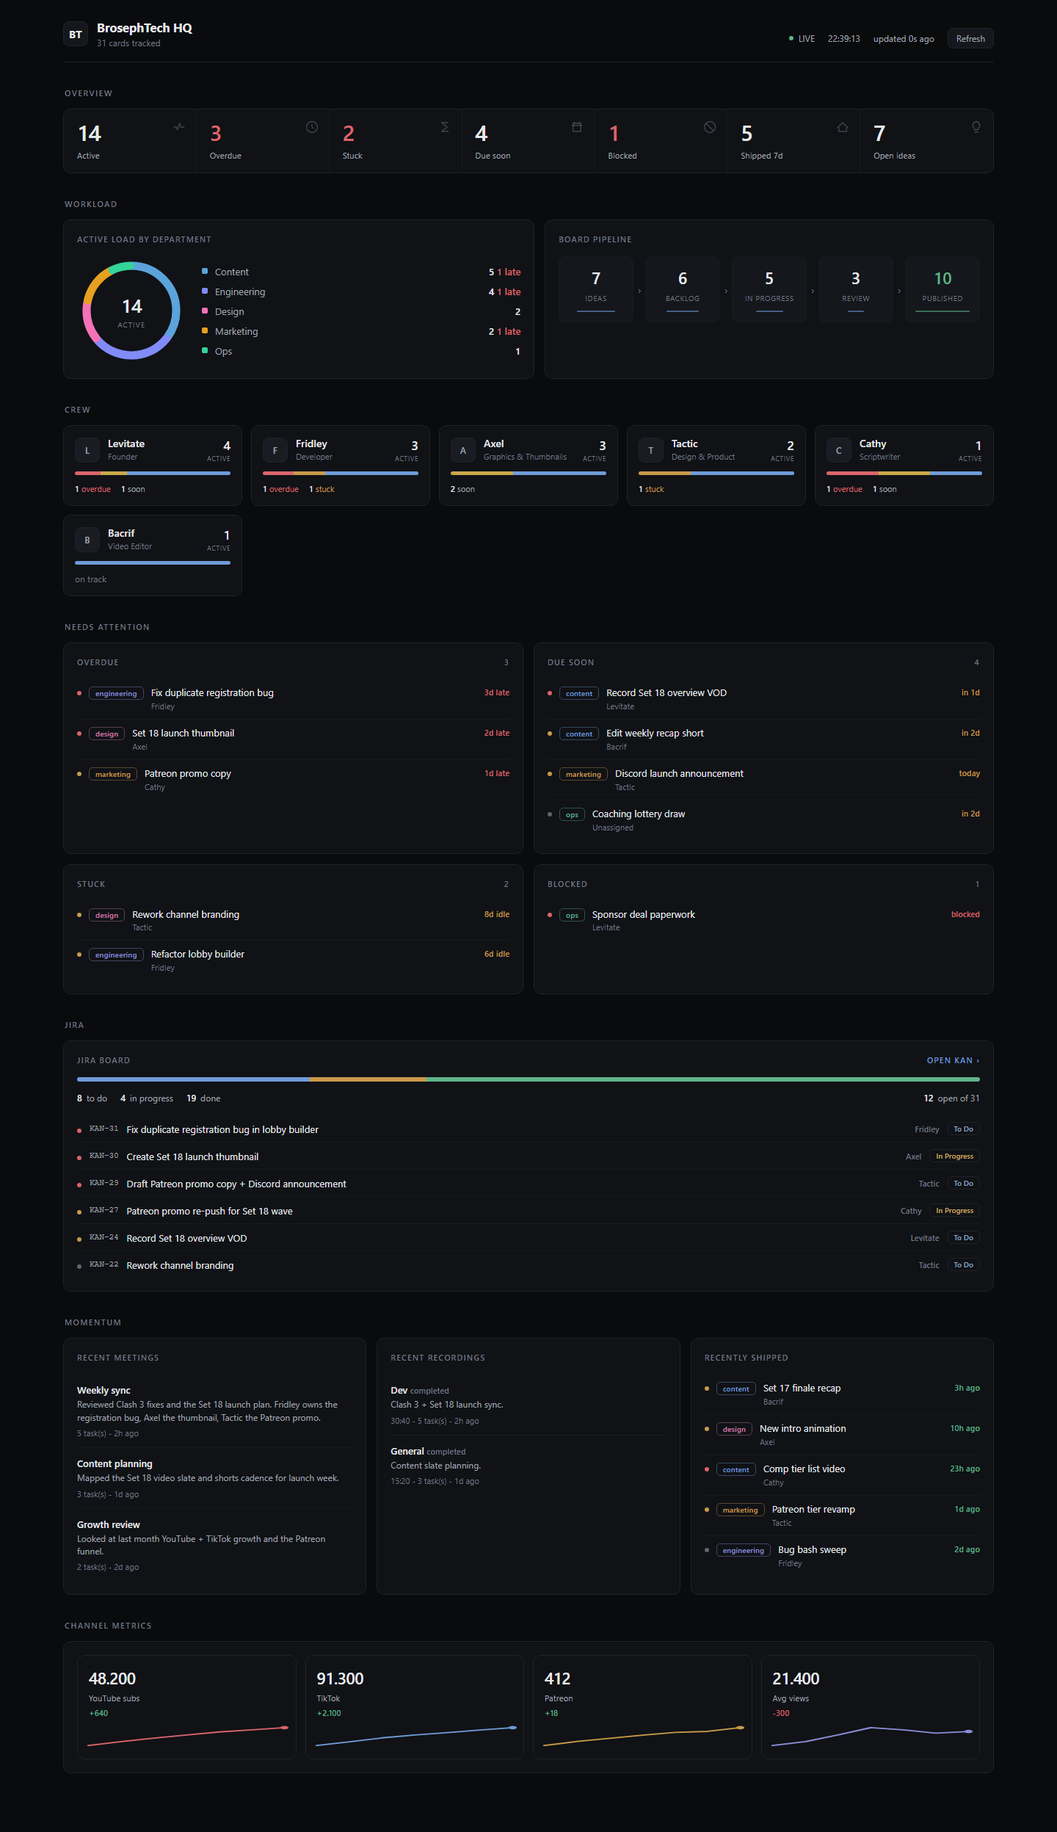
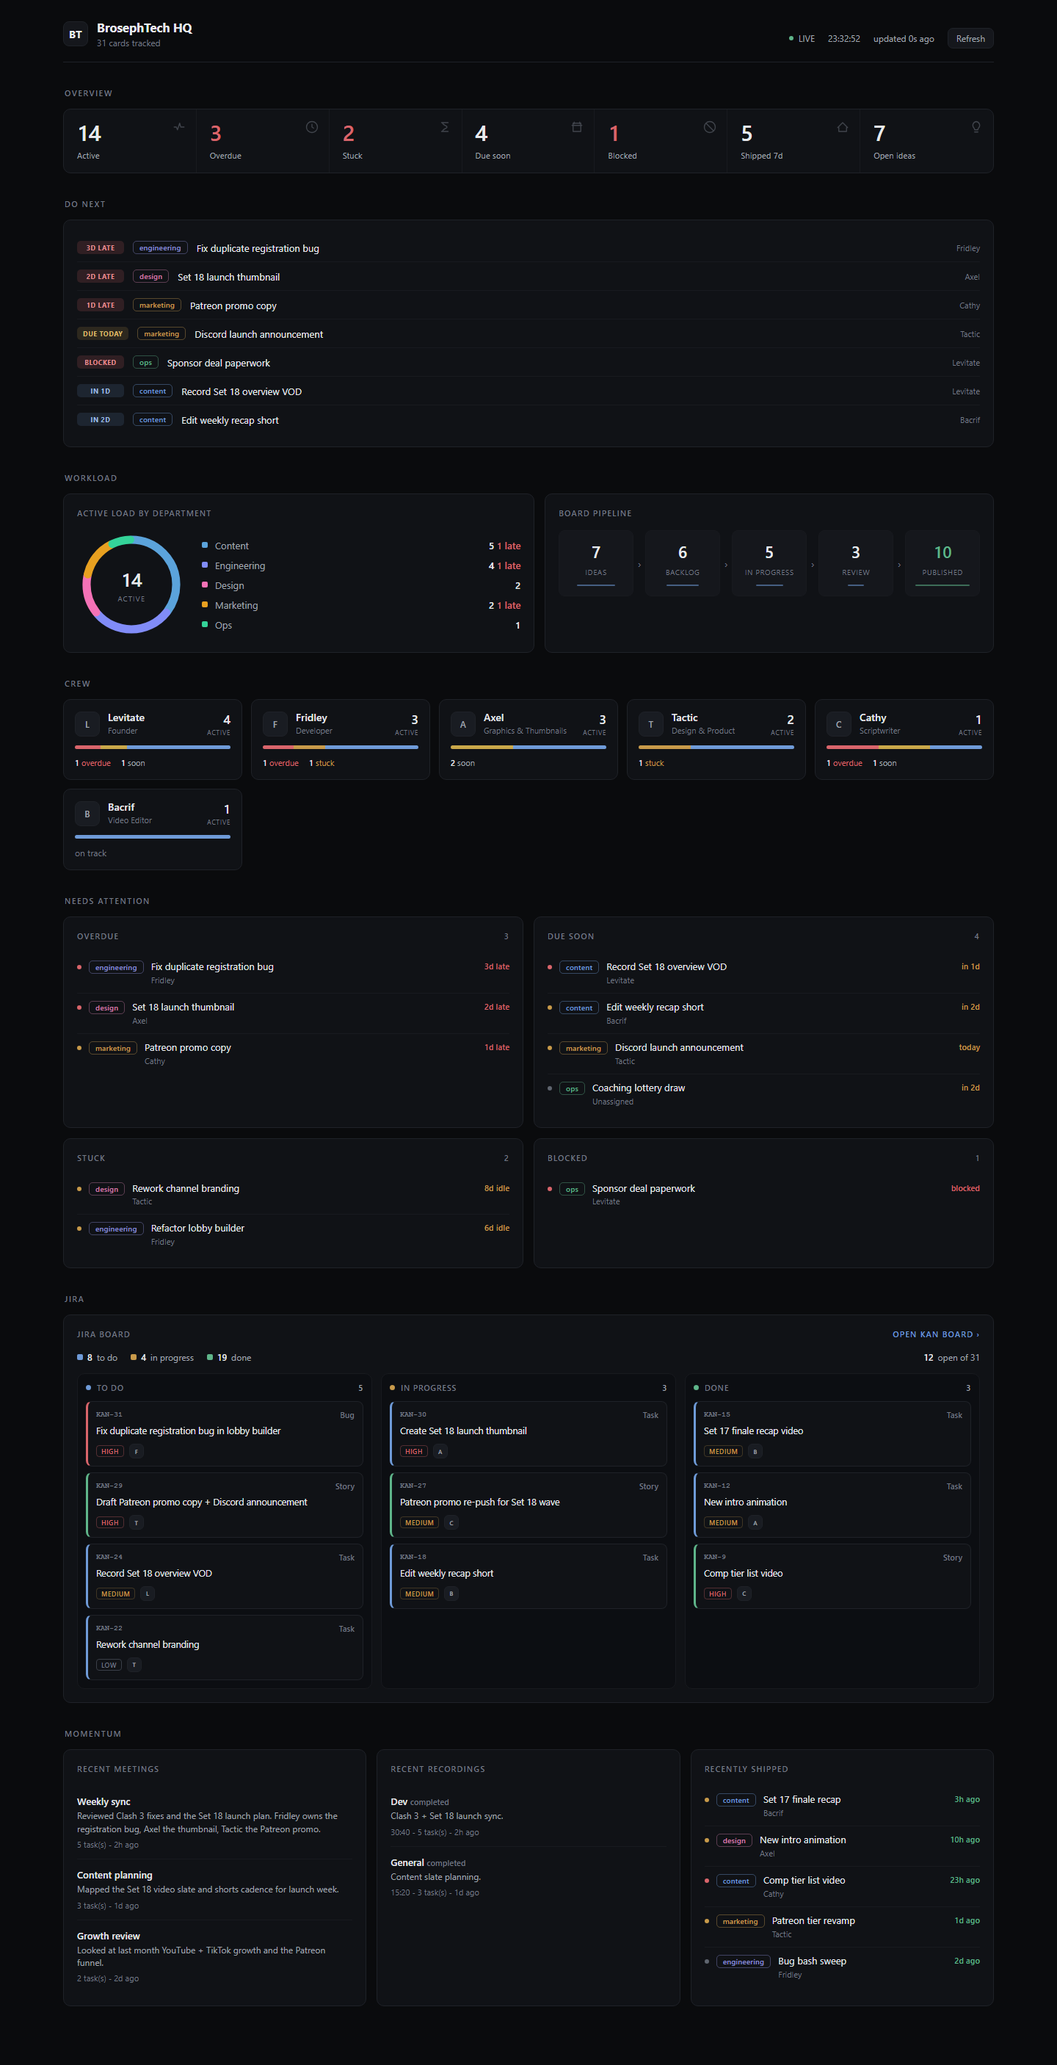
feat(bt-bot): Jira kanban board + 'Do next' focus queue, remove channel metrics
- Jira section is now a real kanban: To Do / In Progress / Done columns of issue
  cards (type-colored, priority chip, assignee avatar), priority-sorted.
  jiraOverview groups issues server-side; client falls back to grouping
  openItems/recent so it works before a restart too.
- New 'Do next' panel: one ranked queue combining overdue / blocked / due-today /
  due-soon into a single directive 'act on this now' list.
- Removed channel metrics from the web dashboard + Discord embed (the /metrics
  command + table stay). Docs + demo data + screenshots updated.

diff --git a/bt-bot/web/public/index.html b/bt-bot/web/public/index.html
@@ -128,6 +128,33 @@
   .jp-high{color:#d9656b;border-color:#d9656b55}.jp-medium{color:#c89a4a;border-color:#c89a4a44}.jp-low{color:var(--faint);border-color:#3a3f48}.jp-highest{color:#e0484f;border-color:#e0484f66}
   .java{width:22px;height:22px;border-radius:6px;background:#191c22;border:1px solid var(--line);display:flex;align-items:center;justify-content:center;font-size:9px;font-weight:600;color:var(--muted);flex:none;letter-spacing:.2px}
   .jempty{width:22px;flex:none}
+  /* kanban board */
+  .jsummary{display:flex;gap:18px;font-size:12px;color:var(--muted);margin-bottom:2px;flex-wrap:wrap}
+  .jsummary span{display:flex;align-items:center;gap:6px}
+  .jsummary b{color:var(--text);font-weight:600;font-variant-numeric:tabular-nums}
+  .kanban{display:grid;grid-template-columns:repeat(3,1fr);gap:12px;margin-top:14px}
+  @media(max-width:820px){.kanban{grid-template-columns:1fr}}
+  .kcol{background:#0c0e12;border:1px solid var(--line-soft);border-radius:10px;padding:11px}
+  .kcol-h{display:flex;align-items:center;gap:8px;font-size:11px;text-transform:uppercase;letter-spacing:.7px;color:var(--faint);margin-bottom:11px;font-weight:600}
+  .kcol-h .kdot{width:7px;height:7px;border-radius:50%;flex:none}
+  .kcol-h .kn{margin-left:auto;color:var(--muted);font-variant-numeric:tabular-nums}
+  .kcards{display:flex;flex-direction:column;gap:8px;max-height:380px;overflow-y:auto}
+  .kcard{display:block;background:var(--panel);border:1px solid var(--line);border-radius:8px;padding:10px 11px;border-left:3px solid var(--tc,#737984)}
+  .kcard:hover{border-color:#2b2f37}
+  .kcard .ktop{display:flex;align-items:center;gap:8px;margin-bottom:6px}
+  .kcard .kk{font-family:ui-monospace,SFMono-Regular,Menlo,monospace;font-size:10px;color:var(--faint);font-weight:600}
+  .kcard .ksum{font-size:12.5px;line-height:1.35;display:-webkit-box;-webkit-line-clamp:2;-webkit-box-orient:vertical;overflow:hidden}
+  .kcard .kf{display:flex;align-items:center;gap:7px;margin-top:9px}
+  .kcard .kf .java{width:20px;height:20px;font-size:8px}
+  .kempty{color:var(--faint);font-size:12px;padding:14px 4px;text-align:center}
+  /* do-next focus queue */
+  .focus-row{display:flex;align-items:center;gap:12px;padding:10px 0;border-bottom:1px solid var(--line-soft)}
+  .focus-row:last-child{border-bottom:0}
+  .fbadge{font-size:9px;font-weight:700;text-transform:uppercase;letter-spacing:.5px;padding:3px 8px;border-radius:5px;white-space:nowrap;min-width:64px;text-align:center}
+  .fb-late{background:rgba(217,101,107,.16);color:#e08a8e}.fb-blocked{background:rgba(217,101,107,.16);color:#e08a8e}.fb-today{background:rgba(200,154,74,.16);color:#d8b86a}.fb-soon{background:rgba(111,155,216,.14);color:#9bb8df}
+  .focus-row .ft{flex:1;min-width:0;font-size:13px;overflow:hidden;text-overflow:ellipsis;white-space:nowrap}
+  .focus-row .fo{font-size:11px;color:var(--faint);white-space:nowrap}
+  .focus-clear{color:var(--green);font-size:13px;padding:16px 0;text-align:center}
 
   /* feeds + metrics */
   .feed .row{padding:12px 0;border-bottom:1px solid var(--line-soft)}
@@ -165,6 +192,9 @@
   <h2 class="section-title" id="kpi-h">Overview</h2>
   <div class="kpis" id="kpis" role="group" aria-labelledby="kpi-h"></div>
 
+  <h2 class="section-title">Do next</h2>
+  <div class="panel"><div id="focus"></div></div>
+
   <h2 class="section-title">Workload</h2>
   <div class="grid split">
     <div class="panel"><h3>Active load by department</h3><div class="donut-wrap"><div class="donut" id="donut" role="img" aria-label="Active work by department"></div><div class="legend" id="legend"></div></div></div>
@@ -192,8 +222,6 @@
     <div class="panel feed"><h3>Recently shipped</h3><div id="shipped"></div></div>
   </div>
 
-  <h2 class="section-title">Channel metrics</h2>
-  <div class="panel"><div class="metrics" id="metrics"></div></div>
   </main>
 </div>
 
@@ -286,36 +314,56 @@ function setList(id,items,kind){document.getElementById(id).innerHTML=listItems(
 
 var JTYPE_COLOR={Task:'#6f9bd8',Story:'#5fb58a',Bug:'#d9656b',Epic:'#8b8fd6',Subtask:'#737984'};
 var JPRIO_W={highest:4,high:3,medium:2,low:1};
+function jiraCard(it){
+  var tcol=JTYPE_COLOR[it.type]||'#737984';
+  var pl=String(it.priority||'').toLowerCase();
+  var sum=dec(it.summary);
+  var prio=it.priority?'<span class="jprio jp-'+(JPRIO_W[pl]?pl:'low')+'">'+esc(it.priority)+'</span>':'';
+  var ava=it.assignee?'<span class="java" title="'+esc(it.assignee)+'">'+esc(initials(it.assignee))+'</span>':'';
+  return '<a class="kcard" style="--tc:'+tcol+'" href="'+esc(it.url)+'" target="_blank" rel="noopener" aria-label="'+esc(it.key+': '+sum+' ('+(it.type||'issue')+', '+it.status+(it.priority?', '+it.priority:'')+(it.assignee?', '+it.assignee:'')+')')+'">'+
+    '<div class="ktop"><span class="kk">'+esc(it.key)+'</span><span class="pill" style="margin-left:auto">'+esc(it.type||'')+'</span></div>'+
+    '<div class="ksum" title="'+esc(sum)+'">'+esc(sum)+'</div>'+
+    '<div class="kf">'+prio+ava+'</div></a>';
+}
+function jiraColumn(title,dot,items){
+  var cards=items.length?items.map(jiraCard).join(''):'<div class="kempty">Nothing here</div>';
+  return '<div class="kcol"><div class="kcol-h"><span class="kdot" style="background:'+dot+'"></span>'+title+'<span class="kn">'+items.length+'</span></div><div class="kcards">'+cards+'</div></div>';
+}
 function jiraPanel(j){
   var el=document.getElementById('jira'),link=document.getElementById('jira-link');
   if(!j||!j.configured){el.innerHTML='<div class="empty">Jira not connected - add JIRA_API_TOKEN to .env and restart, then /record jiracheck</div>';link.textContent='';return;}
   if(j.error){el.innerHTML='<div class="empty">Jira error: '+esc(j.error)+'</div>';return;}
   link.innerHTML='<a href="'+esc(j.browseUrl)+'" target="_blank" rel="noopener">open '+esc(j.projectKey)+' board &rsaquo;</a>';
-  var c=j.counts,tot=(c.todo+c.inProgress+c.done)||1;
-  var seg='<div class="segbar">'+
-    (c.todo?'<i style="width:'+(c.todo/tot*100)+'%;background:#6f9bd8" title="To do"></i>':'')+
-    (c.inProgress?'<i style="width:'+(c.inProgress/tot*100)+'%;background:#c89a4a" title="In progress"></i>':'')+
-    (c.done?'<i style="width:'+(c.done/tot*100)+'%;background:#5fb58a" title="Done"></i>':'')+'</div>'+
-    '<div class="seglabels"><span><span class="sw" style="background:#6f9bd8"></span><b>'+c.todo+'</b> to do</span><span><span class="sw" style="background:#c89a4a"></span><b>'+c.inProgress+'</b> in progress</span><span><span class="sw" style="background:#5fb58a"></span><b>'+c.done+'</b> done</span><span style="margin-left:auto"><b>'+j.open+'</b> open of '+j.total+'</span></div>';
-  // Most important first: sort open issues by priority.
-  var items=((j.openItems&&j.openItems.length?j.openItems:j.recent)||[]).slice().sort(function(a,b){
-    return (JPRIO_W[String(b.priority||'').toLowerCase()]||0)-(JPRIO_W[String(a.priority||'').toLowerCase()]||0);
-  });
-  var rows=items.length?items.map(function(it){
-    var cls=it.category==='done'?'st-done':(it.category==='indeterminate'?'st-ind':'st-new');
-    var pl=String(it.priority||'').toLowerCase();
-    var tcol=JTYPE_COLOR[it.type]||'#737984';
-    var prio=it.priority?'<span class="jprio jp-'+(JPRIO_W[pl]?pl:'low')+'" title="'+esc(it.priority)+' priority">'+esc(it.priority)+'</span>':'';
-    var ava=it.assignee?'<span class="java" title="'+esc(it.assignee)+'">'+esc(initials(it.assignee))+'</span>':'<span class="jempty"></span>';
-    var sum=dec(it.summary);
-    return '<a class="jira-item" href="'+esc(it.url)+'" target="_blank" rel="noopener" aria-label="'+esc(it.key+': '+sum+' ('+it.type+', '+it.status+(it.priority?', '+it.priority:'')+(it.assignee?', '+it.assignee:'')+')')+'">'+
-      '<span class="jtype" style="background:'+tcol+'" title="'+esc(it.type||'')+'"></span>'+
-      '<span class="jkey">'+esc(it.key)+'</span>'+
-      '<span class="js" title="'+esc(sum)+'">'+esc(sum)+'</span>'+
-      prio+ava+
-      '<span class="spill '+cls+'">'+esc(it.status)+'</span></a>';
-  }).join(''):'<div class="empty">No open issues - nice</div>';
-  el.innerHTML=seg+rows;
+  var c=j.counts;
+  // Prefer the server-grouped board; fall back to grouping openItems/recent so
+  // the kanban works even before the bot is restarted with the new code.
+  var board=j.board;
+  if(!board){var open=j.openItems||[],rec=j.recent||[];board={todo:open.filter(function(i){return i.category==='new';}),inProgress:open.filter(function(i){return i.category==='indeterminate';}),done:rec.filter(function(i){return i.category==='done';})};}
+  function sw(col){return '<span style="display:inline-block;width:8px;height:8px;border-radius:2px;background:'+col+'"></span>';}
+  var summary='<div class="jsummary"><span>'+sw('#6f9bd8')+'<b>'+c.todo+'</b> to do</span><span>'+sw('#c89a4a')+'<b>'+c.inProgress+'</b> in progress</span><span>'+sw('#5fb58a')+'<b>'+c.done+'</b> done</span><span style="margin-left:auto"><b>'+j.open+'</b> open of '+j.total+'</span></div>';
+  var kb='<div class="kanban">'+
+    jiraColumn('To do','#6f9bd8',board.todo||[])+
+    jiraColumn('In progress','#c89a4a',board.inProgress||[])+
+    jiraColumn('Done','#5fb58a',board.done||[])+'</div>';
+  el.innerHTML=summary+kb;
+}
+
+// "Do next": one ranked queue of the most urgent board work to act on.
+function focusQueue(d){
+  var el=document.getElementById('focus'); if(!el) return;
+  var rows=[];
+  (d.lists.overdue||[]).forEach(function(c){rows.push({rank:0+(100-Math.min(99,c.daysOverdue||0)),badge:'fb-late',label:(c.daysOverdue||0)+'d late',it:c});});
+  (d.lists.blocked||[]).forEach(function(c){rows.push({rank:200,badge:'fb-blocked',label:'blocked',it:c});});
+  (d.lists.dueSoon||[]).forEach(function(c){var today=c.daysUntil===0;rows.push({rank:today?150:300+(c.daysUntil||0),badge:today?'fb-today':'fb-soon',label:today?'due today':'in '+c.daysUntil+'d',it:c});});
+  rows.sort(function(a,b){return a.rank-b.rank;});
+  if(!rows.length){el.innerHTML='<div class="focus-clear">All caught up. Nothing overdue, blocked, or due soon.</div>';return;}
+  el.innerHTML=rows.slice(0,7).map(function(r){
+    var it=r.it,who=(it.assignees&&it.assignees.length)?it.assignees.join(', '):'Unassigned',ttl=dec(it.title);
+    var dc=deptColor(it.department);
+    return '<div class="focus-row"><span class="fbadge '+r.badge+'">'+r.label+'</span>'+
+      (it.department?'<span class="tag" style="color:'+dc+';border-color:'+dc+'66">'+esc(it.department)+'</span>':'')+
+      '<span class="ft" title="'+esc(ttl)+'">'+esc(ttl)+'</span><span class="fo">'+esc(who)+'</span></div>';
+  }).join('');
 }
 
 function sparkline(vals,color){
@@ -342,6 +390,7 @@ function render(d){
     kpi(t.shippedThisWeek,'Shipped 7d','shipped')+
     kpi(t.ideasOpen,'Open ideas','ideas');
 
+  focusQueue(d);
   donut(d.departments||[]);
   pipeline(d.columns||[]);
   crew(d.members||[]);
@@ -364,12 +413,6 @@ function render(d){
 
   document.getElementById('shipped').innerHTML=listItems((d.lists.shipped||[]).slice(0,6),'shipped');
 
-  var mEl=document.getElementById('metrics');
-  if(d.metrics){var mt=d.metrics,ser=mt.series||{};
-    function met(n,label,delta,vals,color){var dh=(delta==null)?'':'<div class="md '+(delta>=0?'up':'down')+'">'+(delta>=0?'+':'')+fmtNum(delta)+'</div>';return '<div class="metric"><div class="mn">'+fmtNum(n)+'</div><div class="ml">'+label+'</div>'+dh+sparkline(vals,color)+'</div>';}
-    mEl.innerHTML=met(mt.ytSubs,'YouTube subs',mt.deltas.ytSubs,ser.ytSubs,'#d9656b')+met(mt.tiktokFollowers,'TikTok',mt.deltas.tiktokFollowers,ser.tiktokFollowers,getC('--blue'))+met(mt.patreonSubs,'Patreon',mt.deltas.patreonSubs,ser.patreonSubs,getC('--amber'))+met(mt.avgViews,'Avg views',mt.deltas.avgViews,ser.avgViews,getC('--violet'));
-  }else{mEl.innerHTML='<div class="empty">No metrics yet - log with /metrics</div>';}
-
   document.getElementById('sub').textContent=t.cards+' cards tracked';
   document.getElementById('updated').textContent='updated '+ago(d.generatedAt);
   if(firstLoad){animateCounts();firstLoad=false;}
@@ -384,7 +427,7 @@ function demoData(){
   var now=Date.now(),iso=function(minAgo){return new Date(now-minAgo*60000).toISOString();};
   var dep=function(id,label,color,a,o,s,ds){return {id:id,label:label,color:color,icon:'x',active:a,overdue:o,stuck:s,dueSoon:ds,total:a+5};};
   var card=function(title,d,p,who,extra){return Object.assign({title:title,department:d,priority:p,assignees:who?[who]:[],blocked:false},extra||{});};
-  var ji=function(key,sum,cat,st,pr,who){return {key:key,summary:sum,category:cat,status:st,priority:pr,assignee:who,type:'Task',url:'#'};};
+  var ji=function(key,sum,cat,st,pr,who,ty){return {key:key,summary:sum,category:cat,status:st,priority:pr,assignee:who,type:ty||'Task',url:'#'};};
   return {
     generatedAt:iso(0),
     totals:{active:14,overdue:3,stuck:2,dueSoon:4,blocked:1,shippedThisWeek:5,cards:31,ideasOpen:7},
@@ -415,14 +458,31 @@ function demoData(){
       {channelName:'General',status:'completed',durationSeconds:920,tasksCreated:3,summary:'Content slate planning.',createdAt:iso(1500)}
     ],
     metrics:{ytSubs:48200,tiktokFollowers:91300,patreonSubs:412,avgViews:21400,deltas:{ytSubs:640,tiktokFollowers:2100,patreonSubs:18,avgViews:-300},series:{ytSubs:[44100,45000,45800,46500,47200,47700,48200],tiktokFollowers:[80100,82400,84900,86700,88200,89800,91300],patreonSubs:[360,372,381,390,398,401,412],avgViews:[18900,19600,20800,22100,21700,21100,21400]}},
-    jira:{configured:true,projectKey:'KAN',browseUrl:'#',total:31,open:12,counts:{todo:8,inProgress:4,done:19},openItems:[
-      ji('KAN-31','Fix duplicate registration bug in lobby builder','new','To Do','High','Fridley'),
-      ji('KAN-30','Create Set 18 launch thumbnail','indeterminate','In Progress','High','Axel'),
-      ji('KAN-29','Draft Patreon promo copy + Discord announcement','new','To Do','High','Tactic'),
-      ji('KAN-27','Patreon promo re-push for Set 18 wave','indeterminate','In Progress','Medium','Cathy'),
-      ji('KAN-24','Record Set 18 overview VOD','new','To Do','Medium','Levitate'),
-      ji('KAN-22','Rework channel branding','new','To Do','Low','Tactic')
-    ]}
+    jira:{configured:true,projectKey:'KAN',browseUrl:'#',total:31,open:12,counts:{todo:8,inProgress:4,done:19},
+      board:{
+        todo:[
+          ji('KAN-31','Fix duplicate registration bug in lobby builder','new','To Do','High','Fridley','Bug'),
+          ji('KAN-29','Draft Patreon promo copy + Discord announcement','new','To Do','High','Tactic','Story'),
+          ji('KAN-24','Record Set 18 overview VOD','new','To Do','Medium','Levitate','Task'),
+          ji('KAN-22','Rework channel branding','new','To Do','Low','Tactic','Task'),
+          ji('KAN-19','Set 18 launch campaign','new','To Do','High','Levitate','Epic')
+        ],
+        inProgress:[
+          ji('KAN-30','Create Set 18 launch thumbnail','indeterminate','In Progress','High','Axel','Task'),
+          ji('KAN-27','Patreon promo re-push for Set 18 wave','indeterminate','In Progress','Medium','Cathy','Story'),
+          ji('KAN-18','Edit weekly recap short','indeterminate','In Progress','Medium','Bacrif','Task')
+        ],
+        done:[
+          ji('KAN-15','Set 17 finale recap video','done','Done','Medium','Bacrif','Task'),
+          ji('KAN-12','New intro animation','done','Done','Medium','Axel','Task'),
+          ji('KAN-9','Comp tier list video','done','Done','High','Cathy','Story')
+        ]
+      },
+      openItems:[
+        ji('KAN-31','Fix duplicate registration bug in lobby builder','new','To Do','High','Fridley','Bug'),
+        ji('KAN-30','Create Set 18 launch thumbnail','indeterminate','In Progress','High','Axel','Task'),
+        ji('KAN-29','Draft Patreon promo copy + Discord announcement','new','To Do','High','Tactic','Story')
+      ]}
   };
 }
 

diff --git a/bt-bot/lib/jira.js b/bt-bot/lib/jira.js
@@ -243,6 +243,16 @@ export async function jiraOverview() {
       else if (i.category === 'indeterminate') counts.inProgress++;
       else counts.todo++;
     });
+    // Group into kanban columns, highest-priority first, capped per column.
+    var PW = { highest: 4, high: 3, medium: 2, low: 1 };
+    function byPrio(a, b) {
+      return (PW[String(b.priority || '').toLowerCase()] || 0) - (PW[String(a.priority || '').toLowerCase()] || 0);
+    }
+    var board = {
+      todo: issues.filter(function(i) { return i.category !== 'done' && i.category !== 'indeterminate'; }).sort(byPrio).slice(0, 12),
+      inProgress: issues.filter(function(i) { return i.category === 'indeterminate'; }).sort(byPrio).slice(0, 12),
+      done: issues.filter(function(i) { return i.category === 'done'; }).slice(0, 12),
+    };
     return {
       configured: true,
       projectKey: c.projectKey,
@@ -250,6 +260,7 @@ export async function jiraOverview() {
       total: issues.length,
       open: counts.todo + counts.inProgress,
       counts: counts,
+      board: board,
       recent: issues.slice(0, 10),
       // The most recent still-open items are the most useful to surface.
       openItems: issues.filter(function(i) { return i.category !== 'done'; }).slice(0, 10),

diff --git a/bt-bot/commands/dashboard.js b/bt-bot/commands/dashboard.js
@@ -103,23 +103,6 @@ function buildEmbed(d) {
   });
   if (rec.length) embed.addFields({ name: 'Recent recordings', value: clamp(rec.join('\n'), 1024), inline: true });
 
-  // Channel metrics.
-  if (d.metrics) {
-    var mt = d.metrics;
-    function fmt(n, delta) {
-      if (n == null) return '-';
-      var s = Number(n).toLocaleString();
-      if (delta != null && delta !== 0) s += ' (' + (delta > 0 ? '+' : '') + delta + ')';
-      return s;
-    }
-    embed.addFields({
-      name: 'Channel metrics',
-      value: 'YouTube ' + fmt(mt.ytSubs, mt.deltas.ytSubs)
-        + '  -  TikTok ' + fmt(mt.tiktokFollowers, mt.deltas.tiktokFollowers)
-        + '  -  Patreon ' + fmt(mt.patreonSubs, mt.deltas.patreonSubs),
-    });
-  }
-
   // Jira board (when connected).
   if (d.jira && d.jira.configured && !d.jira.error) {
     var jl = [];

diff --git a/bt-bot/docs/index.html b/bt-bot/docs/index.html
@@ -79,7 +79,7 @@
     <img class="shot" src="images/workload.png" alt="workload">
     <img class="shot" src="images/jira-panel.png" alt="jira panel">
   </div>
-  <p>KPIs, a department donut, the board pipeline, per-crew load bars, the work that needs attention, a live Jira panel, recent meetings + recordings, and channel-growth sparklines - all in one place.</p>
+  <p>KPIs, a "Do next" priority queue, a department donut, the board pipeline, per-crew load bars, the work that needs attention, a live Jira kanban board, and recent meetings + recordings - all in one place.</p>
 
   <h2>Setup</h2>
   <p>Config lives in <code>bt-bot/.env</code>. Restart the bot to apply changes.</p>

diff --git a/bt-bot/lib/dashboardData.js b/bt-bot/lib/dashboardData.js
@@ -225,7 +225,6 @@ export async function buildOverview() {
   var meetings = await recentMeetings();
   var voice = await recentVoice();
   var ideas = await ideaStats();
-  var metrics = await metricsTrend();
   var jira = await jiraOverview().catch(function() { return { configured: false }; });
 
   return {
@@ -253,7 +252,6 @@ export async function buildOverview() {
     meetings: meetings,
     voice: voice,
     ideas: ideas,
-    metrics: metrics,
     jira: jira,
   };
 }

diff --git a/bt-bot/docs/USAGE.md b/bt-bot/docs/USAGE.md
@@ -50,7 +50,7 @@ Two views of the same live snapshot.
 ### In Discord: `/dashboard`
 Posts a command-center embed - active / overdue / stuck / due-soon / blocked /
 shipped counts, department health, who's behind, blocked items, recent meetings
-and recordings, Jira status, and channel metrics. Has a **Refresh** button.
+and recordings, and Jira status. Has a **Refresh** button.
 
 ### In the browser
 A dark, auto-refreshing (every 20s) web dashboard the bot serves itself. Open:
@@ -62,13 +62,13 @@ The token is stored in a cookie after the first visit. What's on it:
 | Section | Shows |
 |---|---|
 | KPI row | active, overdue, stuck, due soon, blocked, shipped this week, open ideas |
+| Do next | one ranked queue of the most urgent work (overdue, blocked, due today/soon) |
 | Active load by department | donut split of active work per department |
-| Board pipeline | card counts across Ideas → … → Published |
+| Board pipeline | card counts across Ideas to Published |
 | Crew | each member's active / overdue / stuck / due-soon load |
 | Needs attention | overdue, due-soon, stuck, and blocked cards |
-| Jira board | to-do / in-progress / done bar + open issues with links |
+| Jira board | a live kanban (To Do / In Progress / Done) of your Jira issues |
 | Momentum | recent meetings, recordings, and recently shipped |
-| Channel metrics | YouTube / TikTok / Patreon / avg views with trend sparklines |
 
 ![workload](images/workload.png)
 ![jira panel](images/jira-panel.png)
@@ -79,7 +79,7 @@ The token is stored in a cookie after the first visit. What's on it:
 
 ## 3. Channel metrics (`/metrics`)
 
-Track growth so the dashboard's metrics + sparklines fill in over time.
+Log channel growth over time (kept in `bt_metrics_snapshots`).
 
 - `/metrics log yt:48200 tiktok:91300 patreon:412 avgviews:21400` - record today's
   numbers. Any channel you leave out carries forward from the last entry, so a
